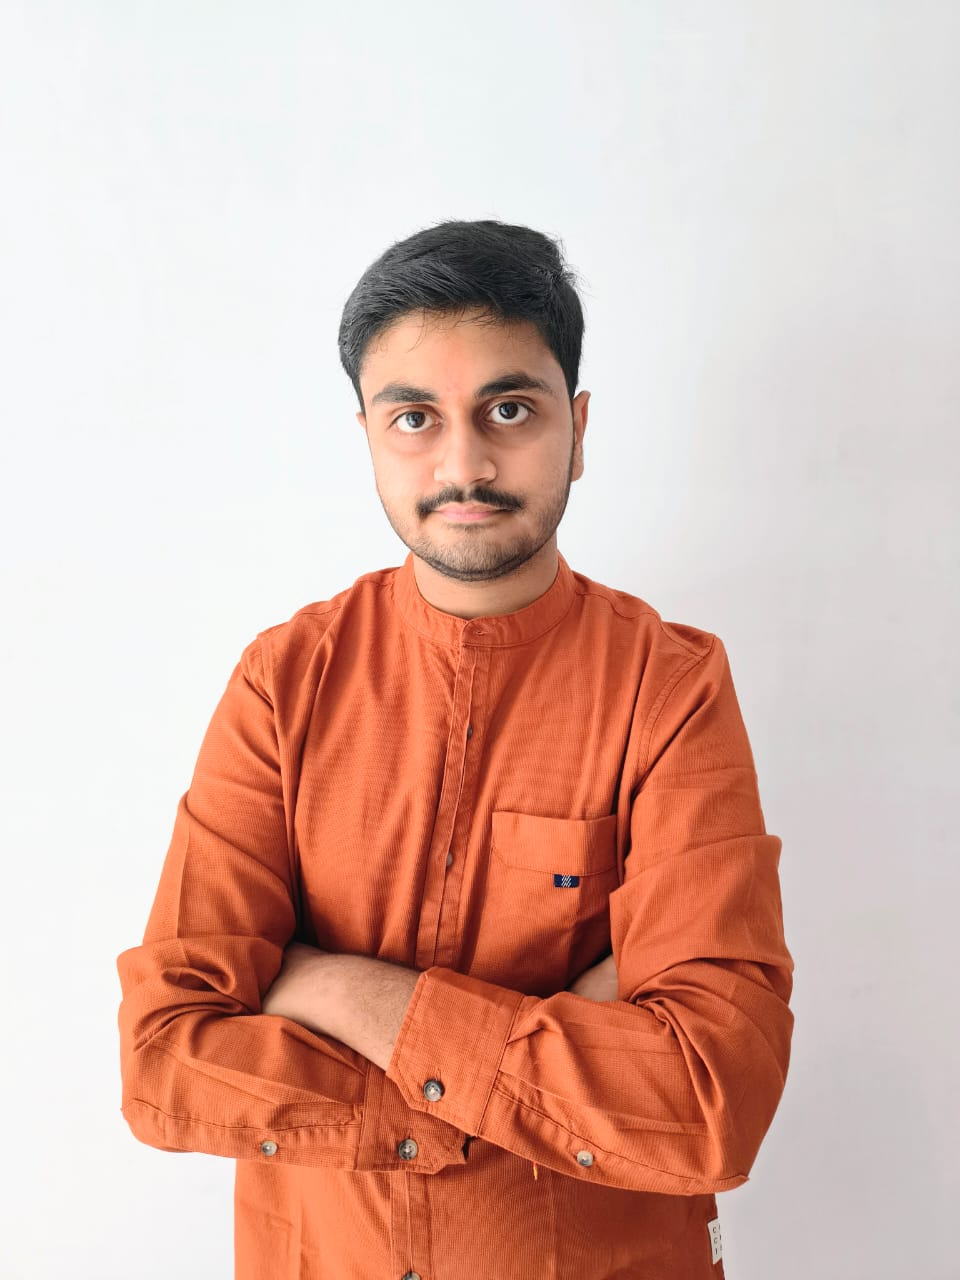
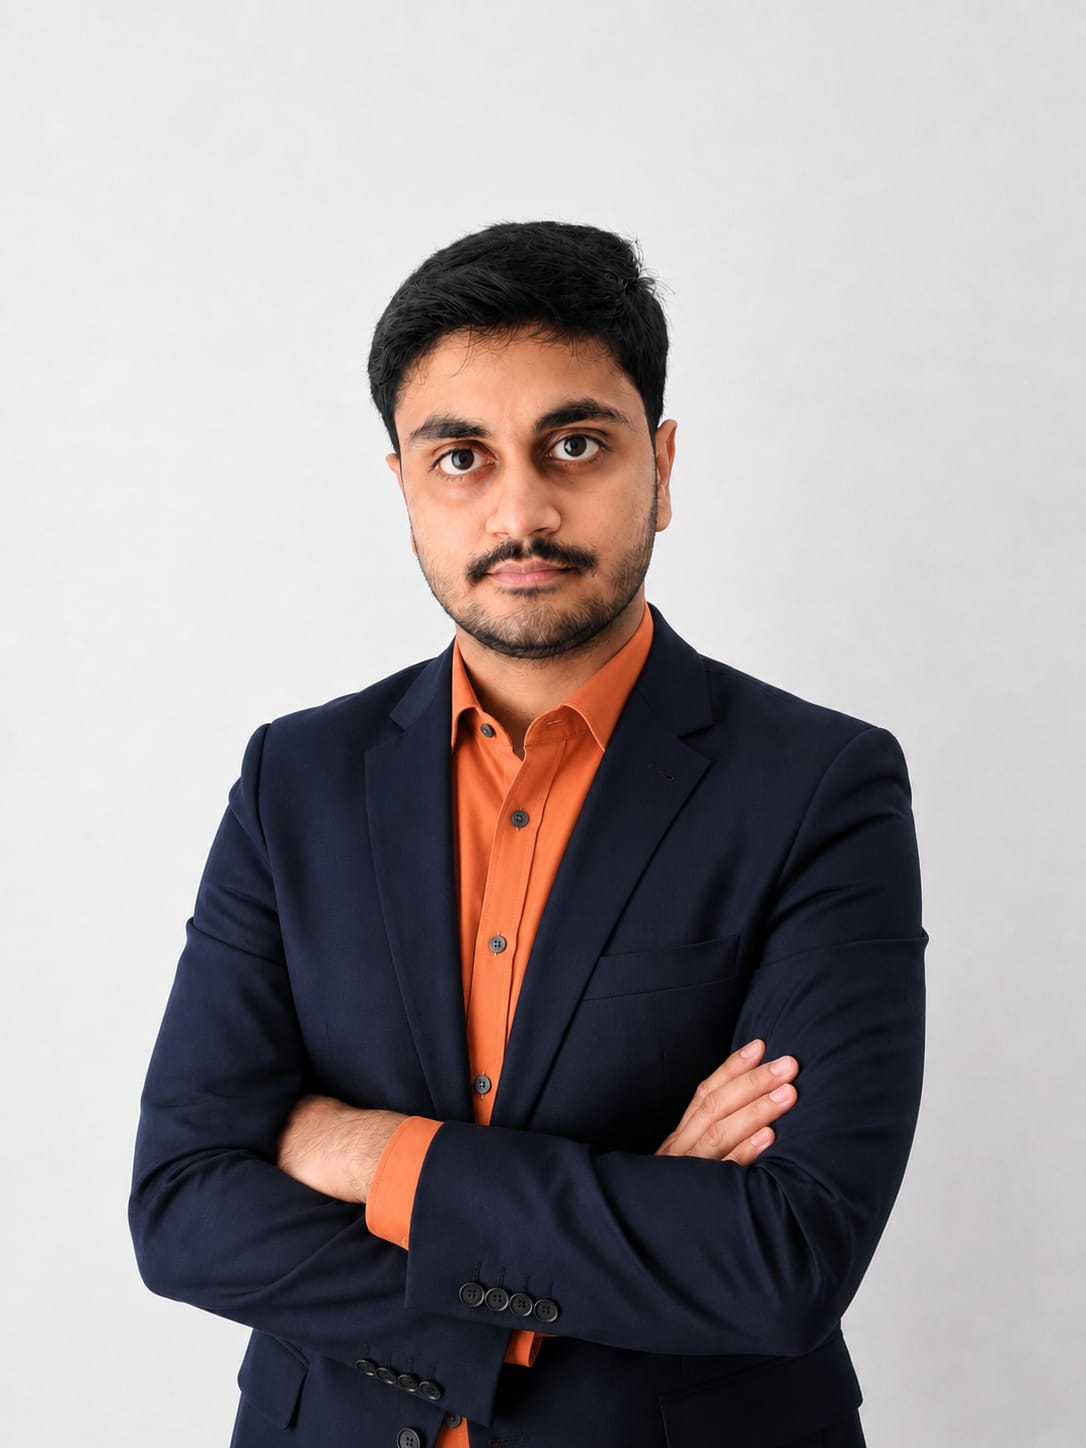
Update projects section: replace hacking simulation with AI Revision Tutor & Interview Assistant

diff --git a/src/components/Sections/Projects.jsx b/src/components/Sections/Projects.jsx
@@ -1,8 +1,9 @@
 import { useState } from 'react';
 import { motion } from 'framer-motion';
-import { Code2, ExternalLink, Sparkles, Terminal, Cpu } from 'lucide-react';
+import { Code2, Sparkles, GraduationCap, Bot } from 'lucide-react';
 import digitalTwinImg from '../../assets/Digital_twin.png';
-import hackingSimuImg from '../../assets/Hacking_simu.png';
+import aiRevisionTutorImg from '../../assets/AI Revision Tutor Interface.png';
+import interviewAssistantImg from '../../assets/Interview Assistant Interface.png';
 
 const PROJECTS = [
   {
@@ -17,14 +18,25 @@ const PROJECTS = [
     featured: true,
   },
   {
-    title: 'Hacking Simulation Interface',
-    tagline: 'Terminal-Based Cyber Environment',
-    category: 'Simulation & Web',
-    icon: Terminal,
-    description: 'An immersive, responsive terminal simulator built in JavaScript featuring custom command execution engines, system diagnostics, and simulated cybersecurity mechanics.',
-    tech: ['JavaScript', 'HTML5', 'CSS3', 'Terminal API'],
-    github: 'https://github.com/Parth00231/Hacker-s-Terminal.git',
-    image: hackingSimuImg,
+    title: 'AI Revision Tutor',
+    tagline: 'AI-Driven Study & Exam Preparation',
+    category: 'AI & Education',
+    icon: GraduationCap,
+    description: 'An AI-powered Revision Assistant & RAG system built on course videos transcripts using Qdrant Vector Search, Groq LLM, FastAPI, and a glassmorphism SPA.',
+    tech: ['React', 'Python', 'FastAPI', 'Whisper', 'Sentence Transformers', 'Tailwind CSS', 'Groq API', 'RAG', 'Qdrant Vector DB'],
+    github: 'https://github.com/Parth00231/AI-Revision-Tutor',
+    image: aiRevisionTutorImg,
+    featured: true,
+  },
+  {
+    title: 'Interview Assistant',
+    tagline: 'Real-Time AI Mock Interview Coach',
+    category: 'AI & Career',
+    icon: Bot,
+    description: 'An AI-powered candidate interview system built with FastAPI, Groq LLM, and PyPDF. Parses candidate resumes into structured Pydantic schemas and features an interactive real-time HR chat interface',
+    tech: ['Html5', 'CSS3', 'Javascript', 'Python', 'FastAPI', 'Groq API', 'PyPDF', 'Pydantic', 'Uvicorn'],
+    github: 'https://github.com/Parth00231/Interview-Assistant',
+    image: interviewAssistantImg,
     featured: true,
   }
 ];
@@ -40,15 +52,15 @@ export default function Projects() {
   return (
     <section id="projects" className="py-32 px-6 relative z-10 border-t border-white/5 bg-space-950/40">
       {flash && <div className="fixed inset-0 z-50 bg-cyan-400/10 pointer-events-none mix-blend-screen" />}
-      
-      <div className="max-w-6xl mx-auto">
-        
+
+      <div className="max-w-7xl mx-auto">
+
         {/* Section Header */}
-        <motion.div 
+        <motion.div
           initial={{ opacity: 0, y: 20 }}
           whileInView={{ opacity: 1, y: 0 }}
           viewport={{ once: true }}
-          className="flex flex-col md:flex-row md:items-end justify-between gap-4 mb-16"
+          className="mb-16"
         >
           <div>
             <div className="flex items-center gap-3 mb-2">
@@ -61,20 +73,10 @@ export default function Projects() {
               Production-ready applications and interactive software experiments.
             </p>
           </div>
-          
-          <a
-            href="https://github.com/Parth00231"
-            target="_blank"
-            rel="noopener noreferrer"
-            className="flex items-center gap-2 text-xs font-mono uppercase tracking-widest text-cyan-400 hover:text-cyan-300 transition-colors self-start md:self-auto"
-          >
-            <span>View GitHub Profile</span>
-            <ExternalLink className="w-3.5 h-3.5" />
-          </a>
         </motion.div>
 
         {/* Project Cards Grid */}
-        <div className="grid md:grid-cols-2 gap-8 max-w-5xl mx-auto">
+        <div className="grid md:grid-cols-2 lg:grid-cols-3 gap-8 max-w-7xl mx-auto">
           {PROJECTS.map((project, idx) => (
             <motion.div
               key={project.title}
@@ -82,7 +84,7 @@ export default function Projects() {
               initial={{ opacity: 0, y: 30 }}
               whileInView={{ opacity: 1, y: 0 }}
               viewport={{ once: true }}
-              transition={{ delay: idx * 0.2 }}
+              transition={{ delay: idx * 0.15 }}
               className="group relative rounded-2xl bg-space-900/70 border border-white/10 hover:border-cyan-400/40 backdrop-blur-xl overflow-hidden shadow-xl hover:shadow-[0_0_35px_rgba(14,165,233,0.2)] transition-all duration-500 flex flex-col justify-between"
             >
               {/* Corner Cyber Brackets */}
@@ -95,9 +97,9 @@ export default function Projects() {
               <div>
                 {/* Image Showcase Container */}
                 <div className="relative h-56 w-full overflow-hidden bg-space-950 border-b border-white/5">
-                  <img 
-                    src={project.image} 
-                    alt={project.title} 
+                  <img
+                    src={project.image}
+                    alt={project.title}
                     className="w-full h-full object-cover object-center opacity-75 group-hover:opacity-100 group-hover:scale-105 transition-all duration-700 filter contrast-105"
                     onError={(e) => {
                       e.target.style.display = 'none';
@@ -124,12 +126,12 @@ export default function Projects() {
                   <p className="text-slate-300 text-sm leading-relaxed mb-6 font-light">
                     {project.description}
                   </p>
-                  
+
                   {/* Tech Stack Pills */}
                   <div className="flex flex-wrap gap-2">
                     {project.tech.map((t) => (
-                      <span 
-                        key={t} 
+                      <span
+                        key={t}
                         className="text-xs px-2.5 py-1 rounded-md bg-space-850 border border-white/5 text-slate-300 font-medium group-hover:border-cyan-500/20 transition-colors"
                       >
                         {t}
@@ -142,9 +144,9 @@ export default function Projects() {
               {/* Card Footer Actions */}
               <div className="p-6 pt-0 mt-4">
                 <div className="pt-4 border-t border-white/5 flex items-center justify-between">
-                  <a 
-                    href={project.github} 
-                    target="_blank" 
+                  <a
+                    href={project.github}
+                    target="_blank"
                     rel="noopener noreferrer"
                     className="inline-flex items-center gap-2 px-4 py-2 rounded-xl bg-cyan-500/10 hover:bg-cyan-500/20 border border-cyan-500/30 text-cyan-300 hover:text-white text-xs font-semibold uppercase tracking-wider transition-all duration-300 shadow-sm group/btn"
                   >
@@ -161,4 +163,5 @@ export default function Projects() {
     </section>
   );
 }
+
 
